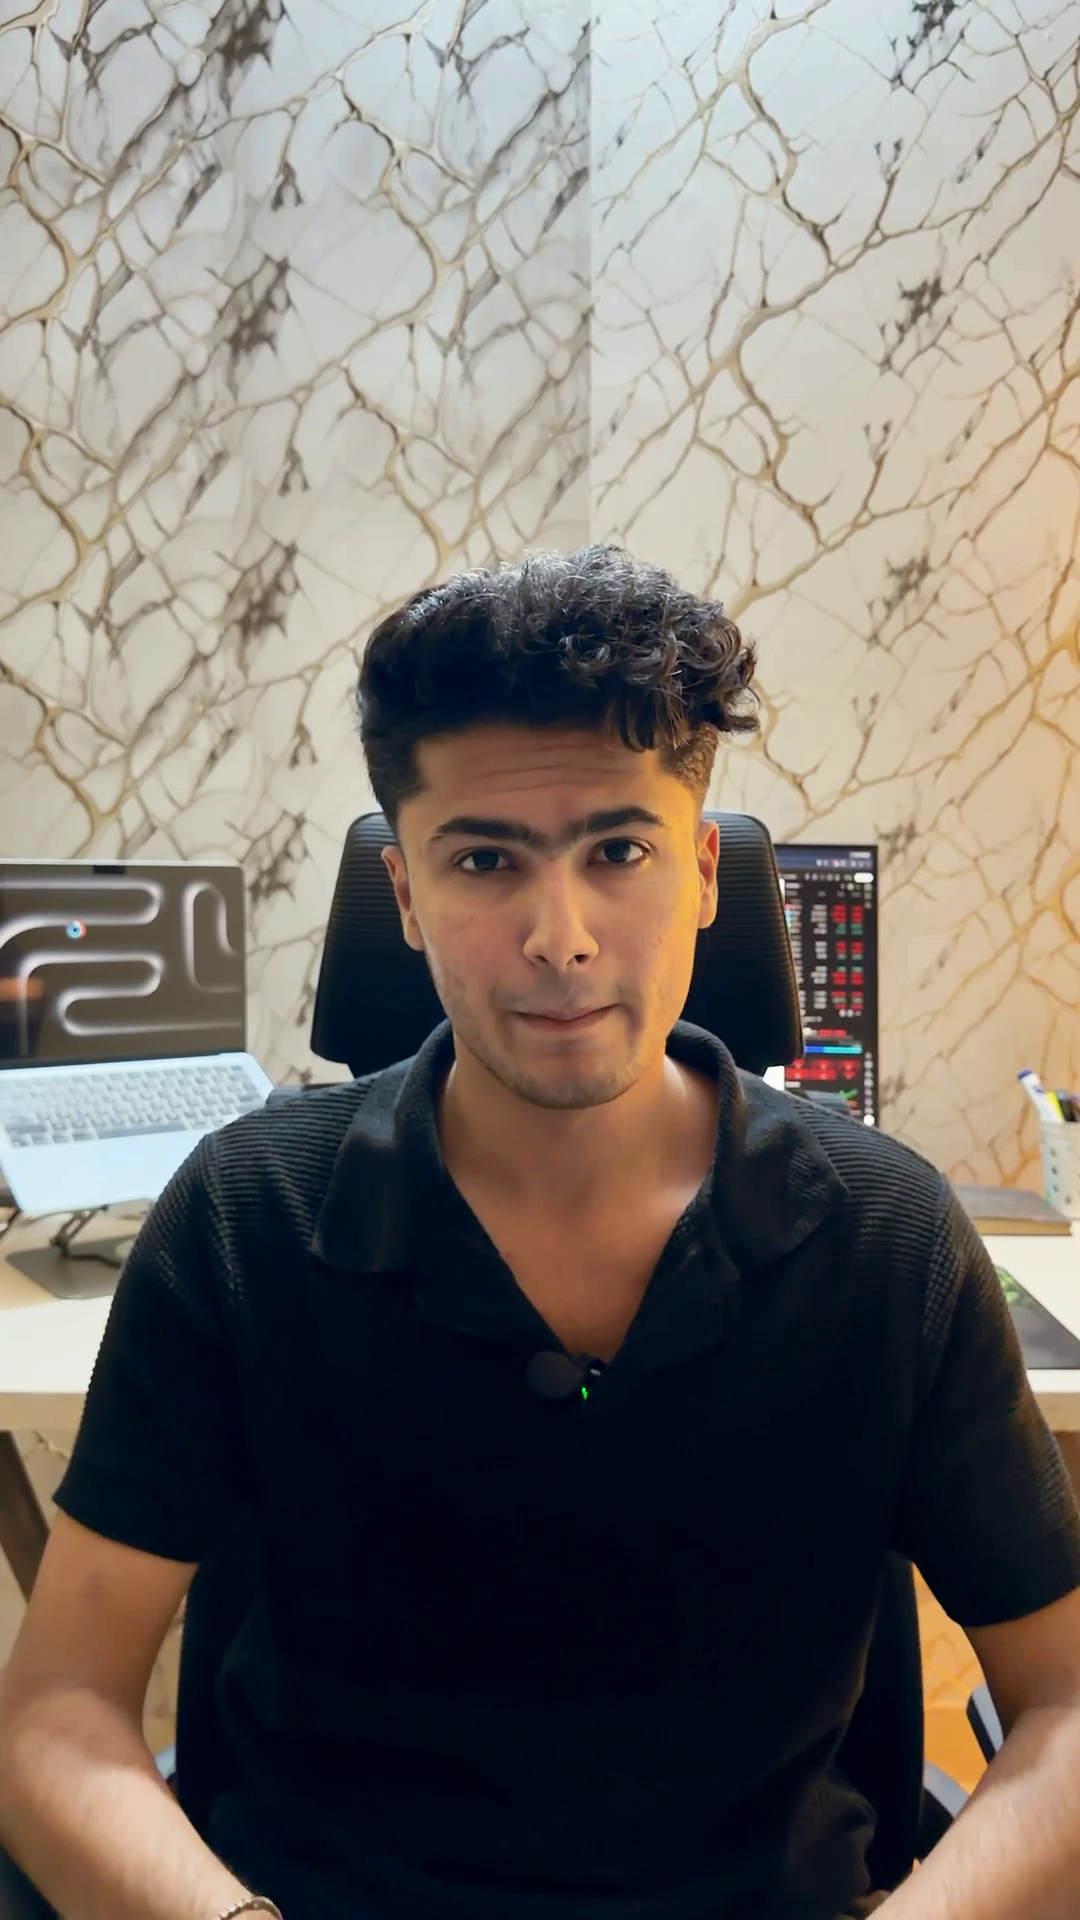
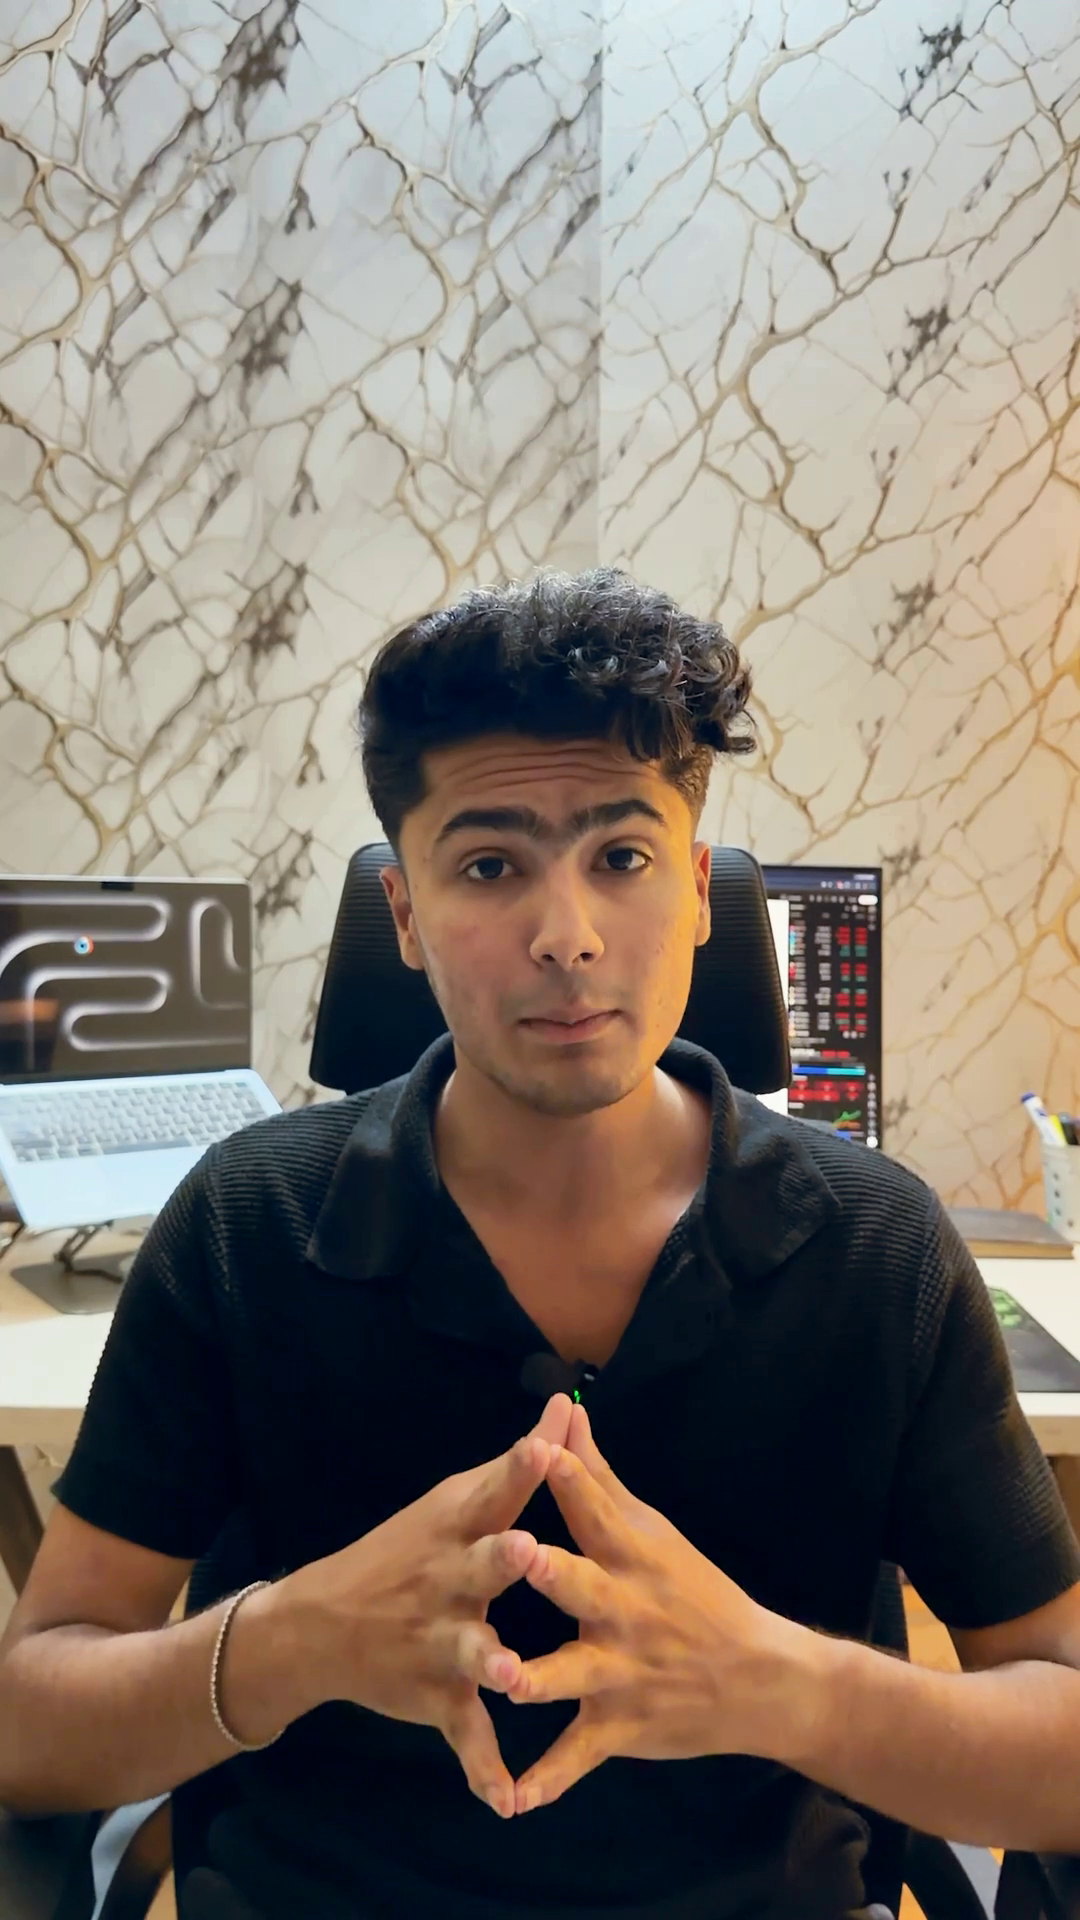
AnfaalAI polish: physics, smooth cuts, cleaner text, refined roto, new cover
- Spring entrances with gentle overshoot/settle, softer split/full-screen moves
- Jump cuts (6.75, 9.63, 21.5) dissolve from the outgoing frame + zoom settle,
  audio eased at each cut
- Soft clean text shadows, baseline-aligned captions snapped to word onsets,
  captions higher and hidden while the layout moves; no bottom shade
- Behind-head words higher; refined roto (guided filter + temporal smoothing)
- Cover: 25.6 s smile frame, CRASH higher, smooth fade

Claude-Session: https://claude.ai/code/session_014Ja4wbTAT2uKsT8s5LCW9C

diff --git a/src/AnfaalAI/Speaker.tsx b/src/AnfaalAI/Speaker.tsx
@@ -1,5 +1,5 @@
 import React from "react";
-import { AbsoluteFill, OffthreadVideo, Sequence, interpolate, staticFile, useCurrentFrame } from "remotion";
+import { AbsoluteFill, Img, OffthreadVideo, Sequence, interpolate, spring, staticFile, useCurrentFrame } from "remotion";
 import { C, F, FPS, H, W } from "./brand";
 import { easeInOut, easeOut, prog, sec } from "./kit";
 import { BEHIND, CAM, CUTS, DURATION_S, SPLITS, faceAt } from "./timeline";
@@ -42,7 +42,7 @@ export const captionTopFull = (t: number) => {
 export const captionYFull = (t: number) => {
   const { face, s } = framing(t, 0);
   const chin = face.cy + 0.58 * face.h * s;
-  return Math.max(1200, Math.min(1430, chin + 60));
+  return Math.max(1165, Math.min(1400, chin + 36));
 };
 
 /** Camera scale at time t (seconds): eased between keys, hard jumps on `hold` keys. */
@@ -71,8 +71,8 @@ export const splitAmount = (frame: number) => {
   for (const s of SPLITS) {
     const a = sec(s.from);
     const b = sec(s.to);
-    const inT = s.from === 0 ? 1 : prog(frame, a, 16, easeInOut); // hook opens already split
-    const outT = s.to >= DURATION_S - 0.1 ? 0 : prog(frame, b - 14, 14, easeInOut);
+    const inT = s.from === 0 ? 1 : prog(frame, a, 20, easeInOut); // hook opens already split
+    const outT = s.to >= DURATION_S - 0.1 ? 0 : prog(frame, b - 18, 18, easeInOut);
     v = Math.max(v, inT * (1 - outT));
   }
   return v;
@@ -91,7 +91,7 @@ const BehindWord: React.FC<{ word: string; tone: string; dur: number; at: number
   const o = prog(f, dur - 8, 8);
   const size = Math.min(400, 1720 / Math.max(3, word.length));
   const face = faceAt(at);
-  const centre = face.cy - 0.78 * face.h;
+  const centre = face.cy - 0.78 * face.h - 95;
   return (
     <AbsoluteFill style={{ alignItems: "center" }}>
       <div
@@ -109,13 +109,19 @@ const BehindWord: React.FC<{ word: string; tone: string; dur: number; at: number
           color: "transparent",
           opacity: t * (1 - o),
           transform: `translateY(${(1 - t) * 60}px) scale(${0.92 + 0.08 * t + 0.03 * (f / dur)})`,
-          filter: `blur(${(1 - t) * 14 + o * 10}px) drop-shadow(0 0 2px rgba(0,0,0,.5)) drop-shadow(0 18px 40px rgba(0,0,0,.55))`,
+          filter: `blur(${(1 - t) * 14 + o * 10}px) drop-shadow(0 8px 22px rgba(0,0,0,.28))`,
         }}
       >
         {word}
       </div>
     </AbsoluteFill>
   );
+};
+
+const CutDissolve: React.FC<{ src: string }> = ({ src }) => {
+  const f = useCurrentFrame();
+  const o = 1 - prog(f, 0, 7, easeInOut);
+  return <Img src={staticFile(src)} style={{ position: "absolute", left: 0, top: 0, width: W, height: H, opacity: o }} />;
 };
 
 export const Speaker: React.FC = () => {
@@ -146,8 +152,14 @@ export const Speaker: React.FC = () => {
           }}
         >
           {video("anfaal2/cut.mp4")}
+          {/* smooth jump cuts: the outgoing shot's last frame dissolves over the incoming one */}
+          {CUTS.map((c) => (
+            <Sequence key={c} from={sec(c)} durationInFrames={7} layout="none">
+              <CutDissolve src={`anfaal2/cut_${c.toFixed(2)}.png`} />
+            </Sequence>
+          ))}
           {/* tame the bright marble above the head so words/pills read */}
-          <AbsoluteFill style={{ background: "linear-gradient(180deg, rgba(5,12,8,.55) 0%, rgba(5,12,8,.35) 30%, rgba(5,12,8,0) 52%)" }} />
+          <AbsoluteFill style={{ background: "linear-gradient(180deg, rgba(5,12,8,.42) 0%, rgba(5,12,8,.22) 30%, rgba(5,12,8,0) 50%)" }} />
           {BEHIND.map((b) => {
             const from = sec(b.from);
             const dur = sec(b.to) - from;
@@ -169,11 +181,11 @@ export const Speaker: React.FC = () => {
             );
           })}
         </div>
-        {/* soft grade finish: vignette + bottom shade for caption legibility */}
+        {/* soft grade finish: light vignette only */}
         <AbsoluteFill
           style={{
             background:
-              "radial-gradient(120% 75% at 50% 40%, transparent 55%, rgba(0,0,0,.35) 100%), linear-gradient(180deg, rgba(0,0,0,0) 55%, rgba(0,0,0,.28) 100%)",
+              "radial-gradient(130% 85% at 50% 42%, transparent 62%, rgba(0,0,0,.22) 100%)",
           }}
         />
         {/* split seam: thin green line on the top edge of the speaker box */}
@@ -198,13 +210,17 @@ export const Speaker: React.FC = () => {
 export const SplitPanel: React.FC<{ from: number; to: number; children: React.ReactNode }> = ({ from, to, children }) => {
   const frame = useCurrentFrame(); // local to the Sequence
   const dur = sec(to) - sec(from);
-  const inT = from === 0 ? 1 : prog(frame, 0, 16, easeInOut);
+  const inT = from === 0 ? 1 : prog(frame, 0, 20, easeInOut);
   const last = to >= DURATION_S - 0.1;
-  const outT = last ? 0 : prog(frame, dur - 14, 14, easeInOut);
+  const outT = last ? 0 : prog(frame, dur - 18, 18, easeInOut);
   const y = -(1 - inT) * 960 - outT * 960;
+  // content lags the panel a touch and settles with a soft spring (follow-through)
+  const settle = from === 0 ? 1 : spring({ frame, fps: 30, config: { damping: 16, mass: 0.9, stiffness: 110 } });
   return (
     <div style={{ position: "absolute", left: 0, top: 0, width: W, height: 960, overflow: "hidden", transform: `translateY(${y}px)` }}>
-      {children}
+      <div style={{ position: "absolute", inset: 0, transform: `translateY(${(1 - settle) * -40}px) scale(${1.03 - 0.03 * settle})`, transformOrigin: "50% 0%" }}>
+        {children}
+      </div>
     </div>
   );
 };
@@ -212,18 +228,19 @@ export const SplitPanel: React.FC<{ from: number; to: number; children: React.Re
 /** Full-screen container: circle reveal from the face, quick scale/blur exit. */
 export const FullScreen: React.FC<{ dur: number; children: React.ReactNode }> = ({ dur, children }) => {
   const frame = useCurrentFrame();
-  const r = prog(frame, 0, 15, easeOut) * 130;
-  const out = prog(frame, dur - 9, 9, easeInOut);
+  const rv = spring({ frame, fps: 30, config: { damping: 20, mass: 1, stiffness: 90 } });
+  const r = Math.min(1, rv) * 130;
+  const out = prog(frame, dur - 12, 12, easeInOut);
   return (
     <AbsoluteFill
       style={{
         clipPath: `circle(${r}% at 50% 36%)`,
         opacity: 1 - out,
-        transform: `scale(${1 + out * 0.06})`,
+        transform: `scale(${1 + out * 0.05})`,
         filter: `blur(${out * 10}px)`,
       }}
     >
-      {children}
+      <AbsoluteFill style={{ transform: `scale(${1.08 - 0.08 * rv})` }}>{children}</AbsoluteFill>
     </AbsoluteFill>
   );
 };

diff --git a/src/AnfaalAI/timeline.ts b/src/AnfaalAI/timeline.ts
@@ -1,45 +1,45 @@
 // "AI bubble burst · gold 3872 · oil $105" reel. Times in seconds on public/anfaal2/cut.mp4
-// (the client's own 38.5 s cut, graded + voice-cleaned; jump cuts at 9.63 and 21.5).
+// (the client's own 38.5 s cut, graded + voice-cleaned; jump cuts at 6.75, 9.63 and 21.5).
 
 export const DURATION_S = 38.45;
-export const CUTS = [9.63, 21.5];
+export const CUTS = [6.75, 9.63, 21.5];
 
 // Roman Urdu captions. *word* = green keyword, !word! = red alert, ^word^ = gold (gold price only).
 export type Cap = { t: number; text: string };
 export const CAPTIONS: Cap[] = [
-  { t: 0.12, text: "*AI bubble* burst ho raha hai" },
-  { t: 1.9, text: "American *stocks* market" },
-  { t: 2.95, text: "!crash! ho rahi hain" },
-  { t: 3.85, text: "saath hi saath" },
-  { t: 4.5, text: "^gold^ bhi !crash! ho raha hai" },
-  { t: 5.6, text: "^4000^ ke level se" },
-  { t: 7.05, text: "^3872^ ke level pe" },
-  { t: 8.1, text: "aa chuka hai" },
-  { t: 9.72, text: "is ka matlab abhi log" },
-  { t: 10.85, text: "kahin bhi *invest* nahi kar rahe" },
-  { t: 12.65, text: "*cash in hand* rakh rahe hain" },
-  { t: 14.0, text: "jabke abhi is waqt" },
-  { t: 15.1, text: "!US–Iran war!" },
-  { t: 16.41, text: "elections aur in sab ke" },
-  { t: 17.6, text: "pressure ki wajah se" },
-  { t: 18.65, text: "*oil* humein" },
-  { t: 19.65, text: "!$105! per barrel" },
-  { t: 20.65, text: "pe dikh raha hai" },
-  { t: 21.6, text: "jo ke bohot !buri situation! hai" },
-  { t: 22.85, text: "America ke liye bhi" },
-  { t: 23.7, text: "aur ^gold^ ke liye bhi" },
-  { t: 24.75, text: "agar aap *safe trade*" },
-  { t: 25.9, text: "karna chahte ho" },
-  { t: 27.05, text: "toh main aap ko" },
-  { t: 27.8, text: "proper *trade plan* doonga" },
-  { t: 29.3, text: "aur woh waqt bhi door nahi" },
-  { t: 30.75, text: "jis se aap *long-term*" },
-  { t: 31.7, text: "investment se" },
-  { t: 32.9, text: "*profit* bana sakein" },
-  { t: 34.0, text: "aur agar aap ko" },
-  { t: 34.8, text: "*trade with me* karna hai" },
-  { t: 36.2, text: "toh *community* link bio mein hai" },
-  { t: 37.4, text: "join kar lo" },
+  { t: 0.1, text: "*AI bubble* burst ho raha hai" },
+  { t: 1.74, text: "American *stocks* market" },
+  { t: 2.78, text: "!crash! ho rahi hain" },
+  { t: 3.74, text: "saath hi saath" },
+  { t: 4.52, text: "^gold^ bhi !crash! ho raha hai" },
+  { t: 5.56, text: "^4000^ ke level se" },
+  { t: 6.94, text: "^3872^ ke level pe" },
+  { t: 8.05, text: "aa chuka hai" },
+  { t: 9.69, text: "is ka matlab abhi log" },
+  { t: 10.74, text: "kahin bhi *invest* nahi kar rahe" },
+  { t: 12.57, text: "*cash in hand* rakh rahe hain" },
+  { t: 13.95, text: "jabke abhi is waqt" },
+  { t: 15.09, text: "!US–Iran war!" },
+  { t: 16.38, text: "elections aur in sab ke" },
+  { t: 17.62, text: "pressure ki wajah se" },
+  { t: 18.67, text: "*oil* humein" },
+  { t: 19.58, text: "!$105! per barrel" },
+  { t: 20.52, text: "pe dikh raha hai" },
+  { t: 21.56, text: "jo ke bohot !buri situation! hai" },
+  { t: 22.77, text: "America ke liye bhi" },
+  { t: 23.75, text: "aur ^gold^ ke liye bhi" },
+  { t: 24.53, text: "agar aap *safe trade*" },
+  { t: 25.86, text: "karna chahte ho" },
+  { t: 27.01, text: "toh main aap ko" },
+  { t: 27.72, text: "proper *trade plan* doonga" },
+  { t: 29.23, text: "aur woh waqt bhi door nahi" },
+  { t: 30.79, text: "jis se aap *long-term*" },
+  { t: 31.76, text: "investment se" },
+  { t: 32.84, text: "*profit* bana sakein" },
+  { t: 33.83, text: "aur agar aap ko" },
+  { t: 34.68, text: "*trade with me* karna hai" },
+  { t: 36.16, text: "toh *community* link bio mein hai" },
+  { t: 37.19, text: "join kar lo" },
 ];
 
 // Scene windows. Splits = infographic top 960 px, speaker below.

diff --git a/src/AnfaalAI/kit.tsx b/src/AnfaalAI/kit.tsx
@@ -1,5 +1,5 @@
 import React from "react";
-import { AbsoluteFill, Easing, interpolate, useCurrentFrame } from "remotion";
+import { AbsoluteFill, Easing, interpolate, spring, useCurrentFrame } from "remotion";
 import { C, F, FPS } from "./brand";
 
 export const easeOut = Easing.bezier(0.16, 1, 0.3, 1);
@@ -18,23 +18,37 @@ export const prog = (frame: number, start: number, dur: number, ease = easeOut) 
 
 export const mix = (t: number, a: number, b: number) => a + (b - a) * t;
 
-/** Standard entrance: rise + fade + de-blur + slight scale. Returns style. */
+/**
+ * Physical spring 0→1 with a small overshoot (~5%) and settle: follow-through
+ * instead of a dead stop. `dur` scales the stiffness so longer = softer.
+ */
+export const springIn = (frame: number, at: number, dur = 12) =>
+  spring({
+    frame: frame - at,
+    fps: 30,
+    config: { damping: 14, mass: 0.8, stiffness: 2400 / Math.max(6, dur) / Math.max(6, dur) + 90 },
+  });
+
+/** Standard entrance: rise + fade + de-blur + scale, on a spring (overshoot then settle). */
 export const enter = (frame: number, at: number, dur = 12, rise = 30): React.CSSProperties => {
-  const t = prog(frame, at, dur);
+  const s = springIn(frame, at, dur);
+  const o = prog(frame, at, Math.max(4, dur * 0.6));
   return {
-    opacity: t,
-    transform: `translateY(${(1 - t) * rise}px) scale(${mix(t, 0.9, 1)})`,
-    filter: `blur(${(1 - t) * 8}px)`,
+    opacity: o,
+    transform: `translateY(${(1 - s) * rise}px) scale(${mix(s, 0.88, 1)})`,
+    filter: `blur(${(1 - o) * 8}px)`,
   };
 };
 
 /** Entrance + quicker exit. */
 export const inOut = (frame: number, at: number, end: number, dur = 12, rise = 30): React.CSSProperties => {
-  const t = prog(frame, at, dur);
-  const o = prog(frame, end - 7, 7, easeIn);
+  const s = springIn(frame, at, dur);
+  const t = prog(frame, at, Math.max(4, dur * 0.6));
+  // exit: tiny anticipation lift, then ease-in away
+  const o = prog(frame, end - 8, 8, easeIn);
   return {
     opacity: t * (1 - o),
-    transform: `translateY(${(1 - t) * rise - o * 10}px) scale(${mix(t, 0.9, 1) * mix(o, 1, 0.96)})`,
+    transform: `translateY(${(1 - s) * rise - o * 16}px) scale(${mix(s, 0.88, 1) * mix(o, 1, 0.94)})`,
     filter: `blur(${(1 - t) * 8 + o * 8}px)`,
   };
 };

diff --git a/src/AnfaalAI/Captions.tsx b/src/AnfaalAI/Captions.tsx
@@ -43,12 +43,14 @@ export const Captions: React.FC = () => {
 
   const sp = splitAmount(frame);
   // full: above the head on the roof. split: just under the seam, over hair only.
-  const y = captionYFull(t) * (1 - sp) + 1010 * sp;
+  const y = captionYFull(t) * (1 - sp) + 978 * sp;
   const light = false;
   const hide = Math.max(
     ...FULL.map((s) => prog(frame, sec(s.from), 6) * (1 - prog(frame, sec(s.to) - 6, 6))),
   );
-  const exit = Math.max(prog(frame, end - 4, 4, easeIn), hide);
+  // while the layout moves between full and split, the caption steps out (it would cross the face)
+  const moving = Math.min(1, Math.max(0, Math.min(sp, 1 - sp) * 6));
+  const exit = Math.max(prog(frame, end - 4, 4, easeIn), hide, moving);
 
   return (
     <AbsoluteFill style={{ pointerEvents: "none" }}>
@@ -61,7 +63,7 @@ export const Captions: React.FC = () => {
           top: y - 50,
           height: 190,
           borderRadius: 80,
-          background: "radial-gradient(50% 50% at 50% 50%, rgba(5,10,8,.78) 0%, rgba(5,10,8,.35) 60%, rgba(5,10,8,0) 100%)",
+          background: "radial-gradient(50% 50% at 50% 50%, rgba(5,10,8,.42) 0%, rgba(5,10,8,.16) 60%, rgba(5,10,8,0) 100%)",
           opacity: sp * (1 - exit),
         }}
       />
@@ -74,6 +76,7 @@ export const Captions: React.FC = () => {
           flexWrap: "nowrap",
           display: "flex",
           justifyContent: "center",
+          alignItems: "baseline",
           columnGap: 16,
           rowGap: 4,
           opacity: 1 - exit,
@@ -96,8 +99,8 @@ export const Captions: React.FC = () => {
                 textShadow: light
                   ? "none"
                   : key
-                    ? `0 2px 0 rgba(0,0,0,.45), 0 0 26px ${kindGlow[tk.kind]}, 0 4px 18px rgba(0,0,0,.85)`
-                    : "0 2px 0 rgba(0,0,0,.45), 0 4px 18px rgba(0,0,0,.85), 0 0 34px rgba(0,0,0,.55)",
+                    ? `0 0 20px ${kindGlow[tk.kind]}, 0 2px 6px rgba(0,0,0,.42)`
+                    : "0 2px 6px rgba(0,0,0,.42), 0 1px 2px rgba(0,0,0,.3)",
                 opacity: p,
                 transform: `translateY(${(1 - p) * 16}px) scale(${key ? 0.85 + 0.15 * p : 1})`,
                 filter: `blur(${(1 - p) * 6}px)`,

diff --git a/src/AnfaalAI/Cover.tsx b/src/AnfaalAI/Cover.tsx
@@ -8,7 +8,7 @@ import { MicroLabel, rnd } from "./kit";
 // Layers: graded frame → brand shading → faint red candles → CRASH → head cut-out
 // (CRASH sits behind the hair) → chest gradient → headline.
 
-const FACE = { x: 551, y: 905 }; // face centre in the 38.25 s frame (smile)
+const FACE = { x: 559, y: 915 }; // face centre in the 25.6 s frame (warm smile)
 const S = 1.28;
 const FACE_TO = 820;
 
@@ -73,7 +73,7 @@ export const AnfaalAICover: React.FC = () => {
         <div
           style={{
             position: "absolute",
-            top: 232,
+            top: 178,
             fontFamily: F.display,
             fontSize: 345,
             lineHeight: 1.05,
@@ -82,7 +82,7 @@ export const AnfaalAICover: React.FC = () => {
             WebkitBackgroundClip: "text",
             backgroundClip: "text",
             color: "transparent",
-            filter: "drop-shadow(0 24px 50px rgba(0,0,0,.55))",
+            filter: "drop-shadow(0 10px 26px rgba(0,0,0,.3))",
           }}
         >
           CRASH
@@ -92,7 +92,7 @@ export const AnfaalAICover: React.FC = () => {
       <Framed src="anfaal2/cover_head.png" />
 
       <AbsoluteFill
-        style={{ background: "linear-gradient(180deg, rgba(7,16,12,0) 58%, rgba(7,16,12,.84) 66%, #07100C 80%)" }}
+        style={{ background: "linear-gradient(180deg, rgba(7,16,12,0) 52%, rgba(7,16,12,.35) 60%, rgba(7,16,12,.7) 68%, rgba(7,16,12,.88) 78%, rgba(7,16,12,.94) 100%)" }}
       />
 
       {/* headline on the chest */}

diff --git a/scripts/anfaal/segment_person_refined.py b/scripts/anfaal/segment_person_refined.py
@@ -1,0 +1,33 @@
+# Smoother roto: U2-Net human mask at 512 px, temporal EMA, edge refinement with a
+# guided filter on the full-res frame (hair edges follow the image), soft feather.
+# Frames outside the windows get an empty mask (only behind-head moments need it).
+# usage: segment_person_refined.py model.onnx cut.mp4 mask.mp4 "6.8-9.2,30.5-33.0"
+import sys, numpy as np, onnxruntime as ort, cv2, subprocess
+M, src, out, wins = sys.argv[1], sys.argv[2], sys.argv[3], sys.argv[4]
+wins = [tuple(map(float, w.split("-"))) for w in wins.split(",")]
+sess = ort.InferenceSession(M, providers=["CPUExecutionProvider"]); inp = sess.get_inputs()[0].name
+cap = cv2.VideoCapture(src); fps = cap.get(5); W, H = 1080, 1920
+mean = np.array([0.485, 0.456, 0.406]); std = np.array([0.229, 0.224, 0.225])
+p = subprocess.Popen(["ffmpeg", "-v", "error", "-y", "-f", "rawvideo", "-pix_fmt", "gray", "-s", f"{W}x{H}", "-r", str(fps), "-i", "-",
+                      "-c:v", "libx264", "-crf", "10", "-pix_fmt", "yuv420p", out], stdin=subprocess.PIPE)
+prev = None; i = 0; zero = np.zeros((H, W), np.uint8)
+while True:
+    ok, fr = cap.read()
+    if not ok: break
+    t = i / fps; i += 1
+    if not any(a <= t <= b for a, b in wins):
+        prev = None; p.stdin.write(zero.tobytes()); continue
+    x = cv2.resize(cv2.cvtColor(fr, cv2.COLOR_BGR2RGB), (320, 320)).astype(np.float32) / 255
+    x = ((x - mean) / std).transpose(2, 0, 1)[None].astype(np.float32)
+    m = sess.run(None, {inp: x})[0][0, 0]
+    m = (m - m.min()) / (m.max() - m.min() + 1e-6)
+    m = cv2.resize(m, (W, H), interpolation=cv2.INTER_CUBIC).astype(np.float32)
+    m = prev * 0.45 + m * 0.55 if prev is not None else m   # temporal smoothing
+    prev = m
+    guide = cv2.cvtColor(fr, cv2.COLOR_BGR2GRAY).astype(np.float32) / 255
+    m = np.nan_to_num(cv2.ximgproc.guidedFilter(guide, np.ascontiguousarray(m, np.float32), 10, 2e-3))  # snap edges to hair
+    m = np.clip(m, 0, 1)
+    m = np.clip((m - 0.3) / 0.4, 0, 1)
+    m = cv2.GaussianBlur(m, (5, 5), 0)
+    p.stdin.write(np.ascontiguousarray((m * 255).astype(np.uint8)).tobytes())
+p.stdin.close(); p.wait(); print("done", i)
